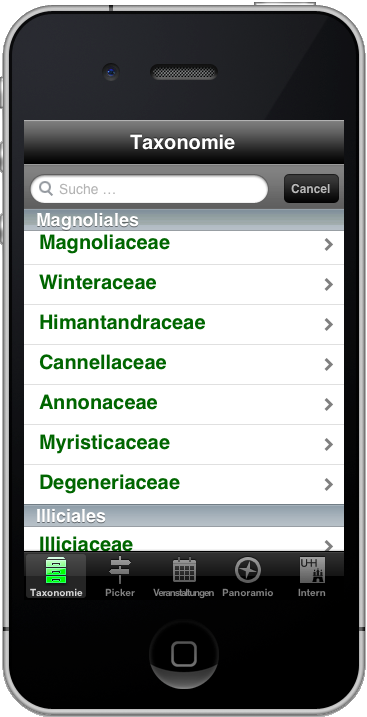
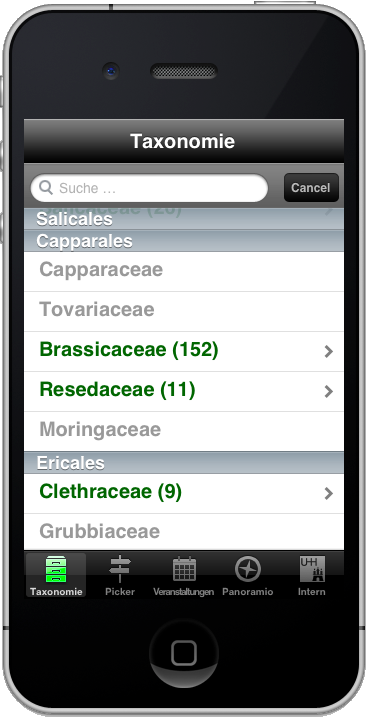
2. Eben mit listview

diff --git a/Resources/module/taxo.gattungoffamily.window.js b/Resources/module/taxo.gattungoffamily.window.js
@@ -1,49 +1,80 @@
 exports.create = function(_familie) {
-	function addRows(r, i) {
-		//	setTimeout(function() {
-		require('module/model').getArtenByGattung(r, function(_items) {
-			for (var a = 0; a < _items.length; a++) {
-				sections[i].add(require('module/artrow').create(_items[a]));
-			}
-			self.tv.setData(sections);
-		});
-		//	}, i * 10);
-	}
 	var self = require('module/win').create(_familie);
+	var plantsTemplate = {
+		properties : {
+			onDisplayItem : function() {
+			},
+			selectedBackgroundColor : 'green',
+			height : 80,
+			height : Ti.UI.SIZE,
+			backgroundColor : 'white',
+			layout : 'vertical'
+		},
+		events : {},
+		childTemplates : [{
+			type : 'Ti.UI.Label',
+			bindId : 'deutsch',
+			properties : {
+				color : '#060',
+				font : {
+					fontSize : 20,
+					fontWeight : 'bold'
+				},
+				left : 10,
+				top : 5,
+				width : Ti.UI.FILL,
+			},
+			events : {}
+		}, {
+			type : 'Ti.UI.Label',
+			bindId : 'latein',
+			properties : {
+				font : {
+					fontFamily : 'FreeSerifItalic',
+					fontStyle : 'italic'
+				},
+				left : 10,
+				top : 5,
+				width : Ti.UI.FILL,
+			},
+			events : {}
+		}]
+	};
 	var sections = [];
-	self.actind.setMessage('Lade Pflanzen der Familie „' + _familie + '“')
-	self.actind.show();
-	setTimeout(function() {
-		if (self && self.actind)
-			self.actind.hide()
-	}, 2000);
-	self.tv = Ti.UI.createTableView({
-		top : 0,
-		height : Ti.UI.FILL,
-		backgroundColor : 'transparent'
+	require('module/model').getGattungenByFamilie(_familie, function(_results) {
+		for (var i = 0; i < _results.length; i++) {
+			var data = [];
+			require('module/model').getArtenByGattung(_results[i], function(_items) {
+				for (var a = 0; a < _items.length; a++) {
+					data.push({
+						deutsch : {
+							text : _items[a].deutsch
+						},
+						latein : {
+							text : _items[a].gattung + ' ' + _items[a].art
+						},
+						properties : {
+							itemId : _items[a],
+							accessoryType : Ti.UI.LIST_ACCESSORY_TYPE_DISCLOSURE
+						}
+					});
+				}
+			});
+			sections[i] = Ti.UI.createListSection({
+				headerTitle : _results[i],
+				items : data,
+				backgroundColor : 'white'
+			});
+		}
 	});
-	
-	setTimeout(function() {
-		require('module/model').getGattungenByFamilie(_familie, function(_results) {
-			for (var i = 0; i < _results.length; i++) {
-				var gattung = _results[i];
-				sections[i] = Ti.UI.createTableViewSection({
-					headerTitle : gattung,
-				});
-				addRows(gattung, i);
-			}
-			self.tv.data = sections;
-		});
-	}, 100);
-	self.add(self.tv);
-	self.addEventListener('close', function() {
-		self = null;
+	self.listView = Ti.UI.createListView({
+		sections : sections,
+		templates : {
+			'plants' : plantsTemplate
+		},
+		backgroundColor : 'transparent',
+		defaultItemTemplate : 'plants',
 	});
-	self.tv.addEventListener('click', function(_e) {
-		var win = require('module/detail.window').create(_e.rowData.data);
-		self.tab.open(win, {
-			animate : true
-		});
-	});
+	self.add(self.listView);
 	return self;
 }

diff --git a/Resources/module/taxo.gattungoffamily.windowOLD.js b/Resources/module/taxo.gattungoffamily.windowOLD.js
@@ -1,0 +1,49 @@
+exports.create = function(_familie) {
+	function addRows(r, i) {
+		//	setTimeout(function() {
+		require('module/model').getArtenByGattung(r, function(_items) {
+			for (var a = 0; a < _items.length; a++) {
+				sections[i].add(require('module/artrow').create(_items[a]));
+			}
+			self.tv.setData(sections);
+		});
+		//	}, i * 10);
+	}
+	var self = require('module/win').create(_familie);
+	var sections = [];
+	self.actind.setMessage('Lade Pflanzen der Familie „' + _familie + '“')
+	self.actind.show();
+	setTimeout(function() {
+		if (self && self.actind)
+			self.actind.hide()
+	}, 2000);
+	self.tv = Ti.UI.createTableView({
+		top : 0,
+		height : Ti.UI.FILL,
+		backgroundColor : 'transparent'
+	});
+	
+	setTimeout(function() {
+		require('module/model').getGattungenByFamilie(_familie, function(_results) {
+			for (var i = 0; i < _results.length; i++) {
+				var gattung = _results[i];
+				sections[i] = Ti.UI.createTableViewSection({
+					headerTitle : gattung,
+				});
+				addRows(gattung, i);
+			}
+			self.tv.data = sections;
+		});
+	}, 100);
+	self.add(self.tv);
+	self.addEventListener('close', function() {
+		self = null;
+	});
+	self.tv.addEventListener('click', function(_e) {
+		var win = require('module/detail.window').create(_e.rowData.data);
+		self.tab.open(win, {
+			animate : true
+		});
+	});
+	return self;
+}
